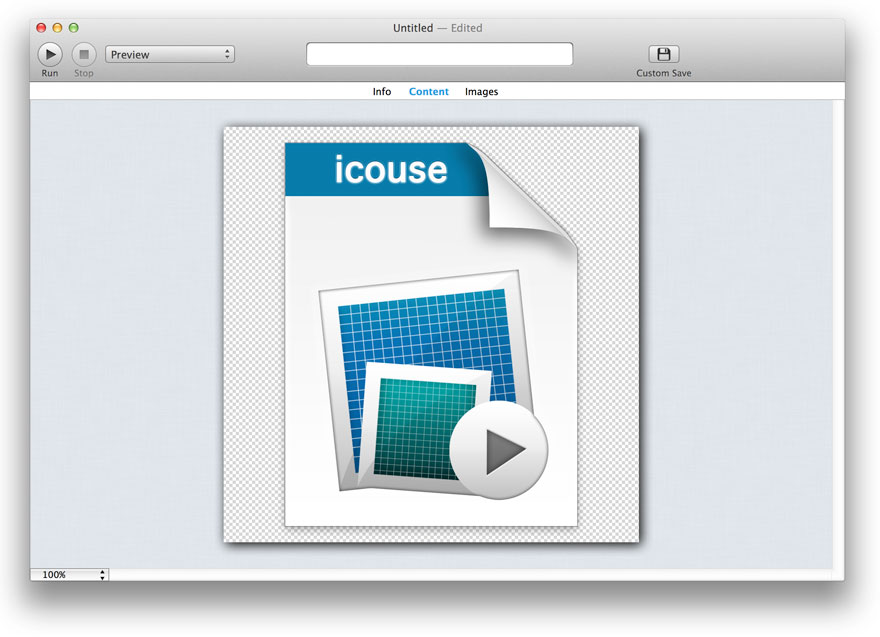
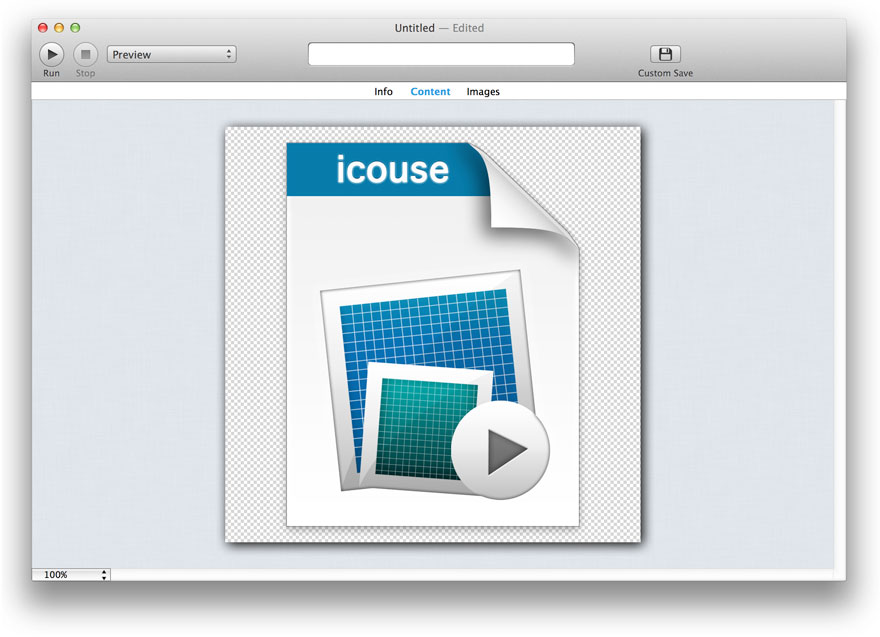
更新app页面

diff --git a/mac/Icouse/en/index.html b/mac/Icouse/en/index.html
@@ -132,7 +132,7 @@
 		        	
 		        	<section id="screenshot">
 		        			<h2>screenshot</h2>
-		        			<img src="../image/screenshot.jpg" width="890" alt="[screenshot]"/>
+		        			<img src="../image/screenshot.jpg" srcset="../image/screenshot@2x.jpg 2x"  alt="[screenshot]"/>
 		        		</section>
 		        	
 		        	<section id="features">
